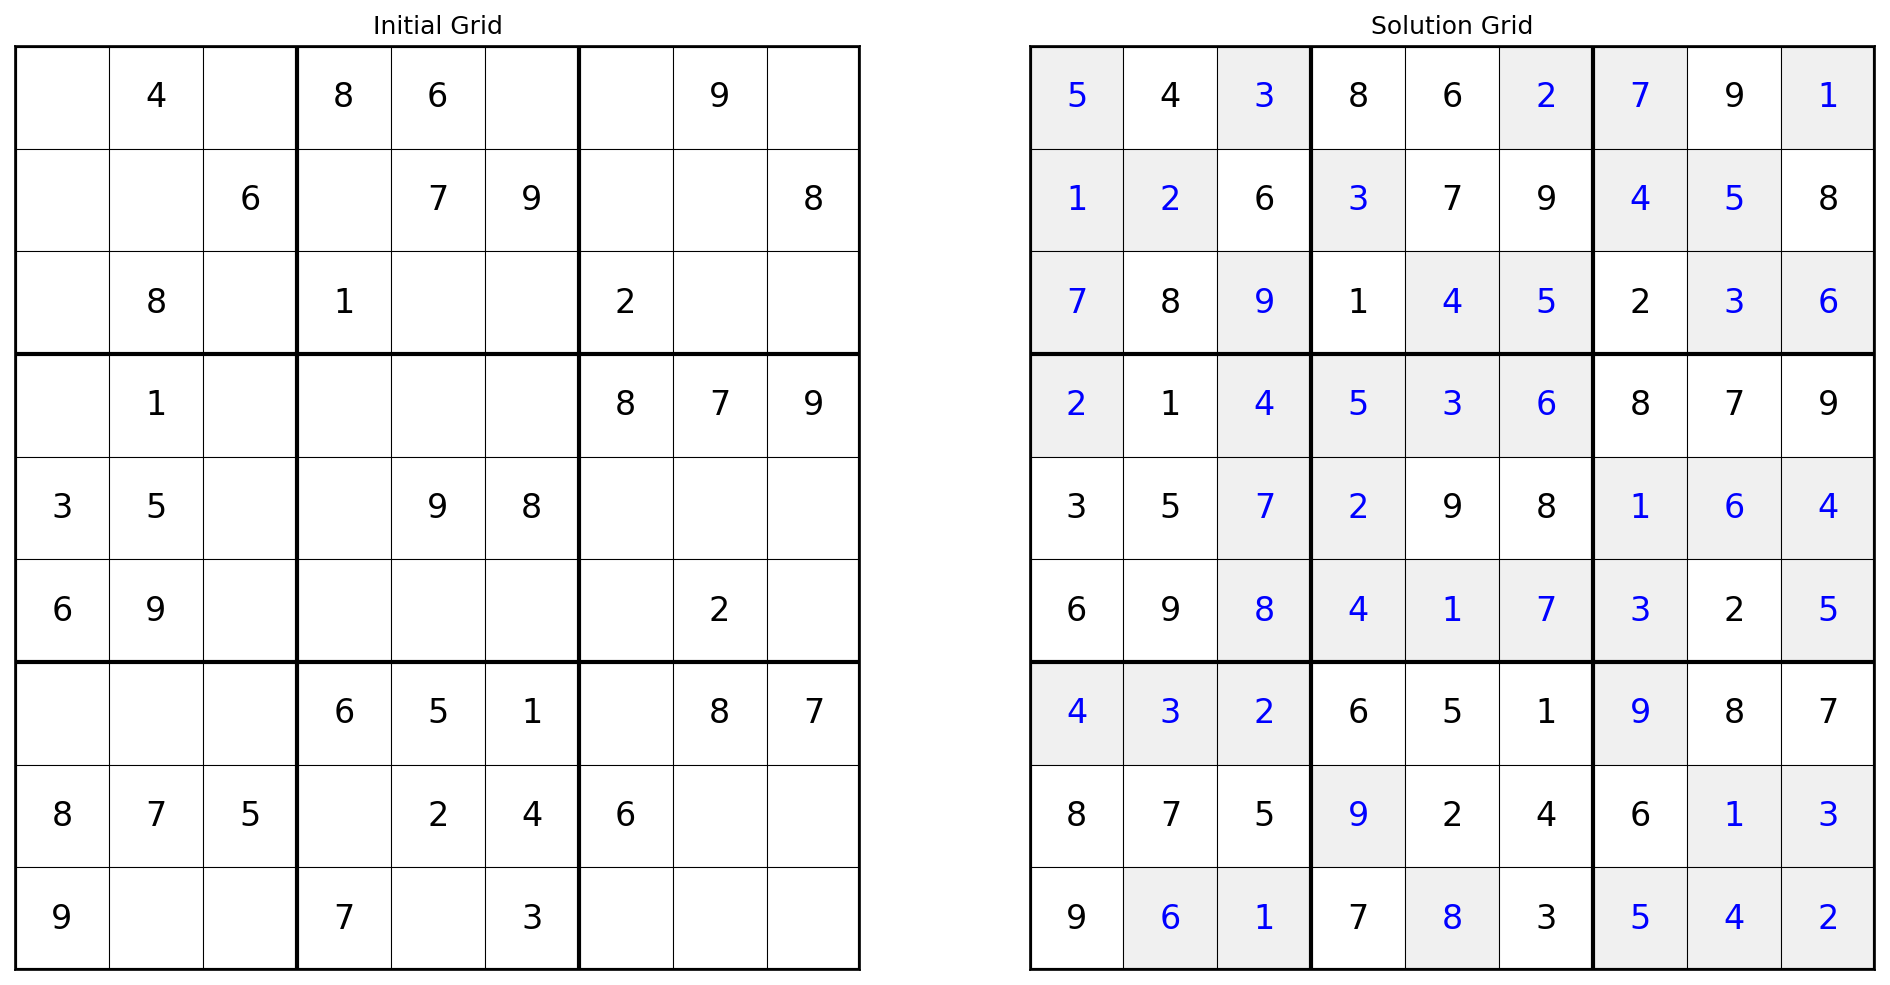
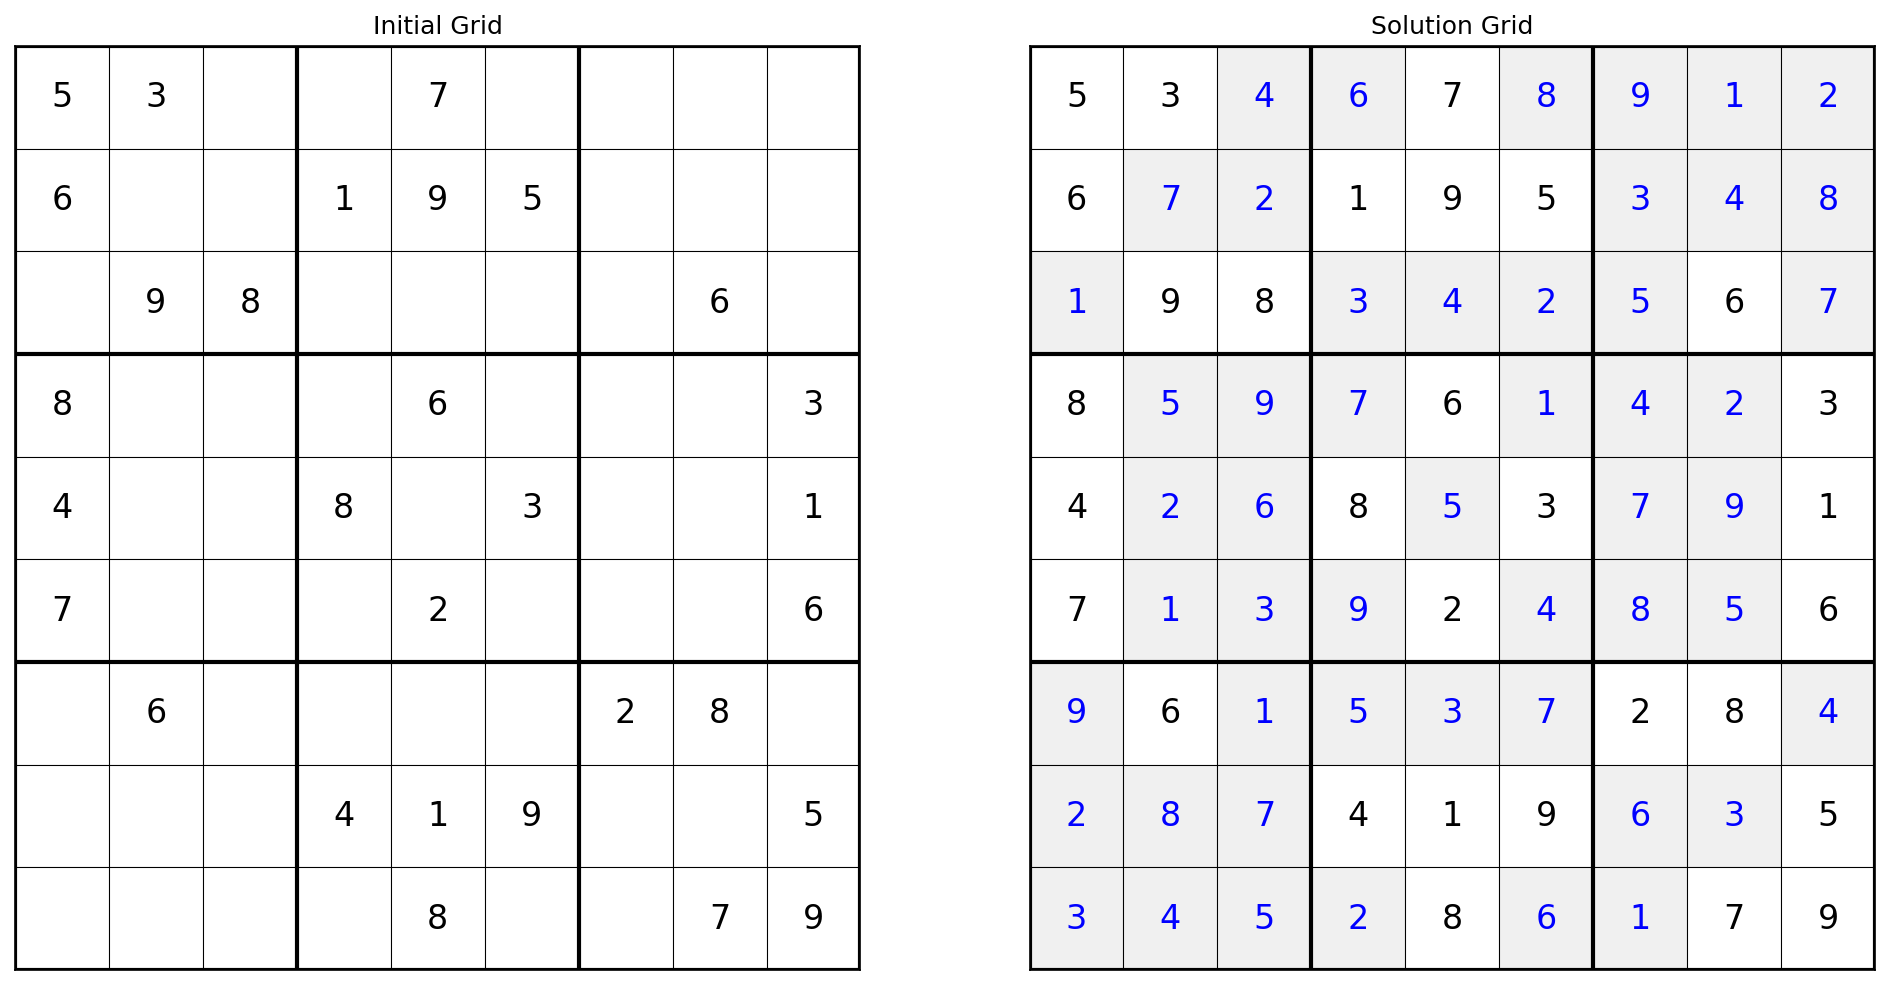
51 üres hely megoldás+ readme frissites

diff --git a/soduko_solver.py b/soduko_solver.py
@@ -289,15 +289,15 @@ class SudokuGeneticSolver:
 
 if __name__ == "__main__":
     grid = [
-        [0, 4, 0, 8, 6, 0, 0, 9, 0],
-        [0, 0, 6, 0, 7, 9, 0, 0, 8],
-        [0, 8, 0, 1, 0, 0, 2, 0, 0],
-        [0, 1, 0, 0, 0, 0, 8, 7, 9],
-        [3, 5, 0, 0, 9, 8, 0, 0, 0],
-        [6, 9, 0, 0, 0, 0, 0, 2, 0],
-        [0, 0, 0, 6, 5, 1, 0, 8, 7],
-        [8, 7, 5, 0, 2, 4, 6, 0, 0],
-        [9, 0, 0, 7, 0, 3, 0, 0, 0],
+        [5, 3, 0, 0, 7, 0, 0, 0, 0],
+        [6, 0, 0, 1, 9, 5, 0, 0, 0],
+        [0, 9, 8, 0, 0, 0, 0, 6, 0],
+        [8, 0, 0, 0, 6, 0, 0, 0, 3],
+        [4, 0, 0, 8, 0, 3, 0, 0, 1],
+        [7, 0, 0, 0, 2, 0, 0, 0, 6],
+        [0, 6, 0, 0, 0, 0, 2, 8, 0],
+        [0, 0, 0, 4, 1, 9, 0, 0, 5],
+        [0, 0, 0, 0, 8, 0, 0, 7, 9]
     ]
 
     solver = SudokuGeneticSolver(grid)

diff --git a/README.md b/README.md
@@ -1,104 +1,191 @@
-# Sudoku Optimizer
+# Sudoku Optimalizáló
 
-This project implements an optimization algorithm for solving Sudoku puzzles. The Sudoku optimizer aims to provide an efficient way to solve Sudoku grids using various optimization techniques.
-
-Ez a projekt egy optimalizálási algoritmust valósít meg a Sudoku rejtvények megoldására. A Sudoku optimalizáló célja, hogy hatékony módot biztosítson a Sudoku rácsok megoldására különböző optimalizálási technikák segítségével.
+Ez a projekt egy genetikus algoritmust implementál a Sudoku rejtvények megoldására. Az algoritmus evolúciós technikákat használ különböző nehézségű Sudoku rácsok megoldására.
 
 ---
 
-## Project Structure / Projekt Struktúra
+## Projekt Struktúra
 
 ```
 sudoku-optimizer
 ├── soduko_solver.py
-├── requirements.txt
+├── grids.txt
 └── README.md
 ```
 
-- **`soduko_solver.py`**: Contains the implementation of the genetic algorithm for solving Sudoku puzzles.
-  - Tartalmazza a genetikus algoritmus implementációját a Sudoku rejtvények megoldására.
-- **`requirements.txt`**: Lists the required Python packages for the project.
-  - A projekthez szükséges Python-csomagokat tartalmazza.
-- **`README.md`**: Documentation for the project.
-  - A projekt dokumentációja.
+- **`soduko_solver.py`**: Tartalmazza a genetikus algoritmus implementációját vizualizációs funkciókkal.
+- **`grids.txt`**: Különböző nehézségű Sudoku rácsok gyűjteménye (2-60 üres cellával).
+- **`README.md`**: A projekt dokumentációja.
 
 ---
 
-## Installation / Telepítés
+## Jellemzők
 
-To install the required dependencies, run:
-A szükséges függőségek telepítéséhez futtasd az alábbi parancsot:
-
-```
-pip install -r requirements.txt
-```
+- Genetikus algoritmus implementáció
+- A megoldási folyamat vizuális megjelenítése
+- Különböző nehézségi szintek támogatása
+- Folyamat vizualizáció matplotlib segítségével
+- Megoldás animáció mentése GIF formátumban
 
 ---
 
-## Usage / Használat
+## Követelmények
 
-To solve a Sudoku puzzle, you can use the `SudokuGeneticSolver` class from the `soduko_solver.py` file. Here is a basic example:
-Egy Sudoku rejtvény megoldásához használd a `SudokuGeneticSolver` osztályt a `soduko_solver.py` fájlból. Íme egy alapvető példa:
+- Python 3.x
+- numpy
+- matplotlib
+- IPython
+
+---
+
+## Használat
+
+Egy Sudoku rejtvény megoldásához használd a `SudokuGeneticSolver` osztályt a `soduko_solver.py` fájlból:
 
 ```python
 from soduko_solver import SudokuGeneticSolver
+import numpy as np
 
-grid = [
-    [0, 3, 4, 6, 7, 8, 9, 1, 0],
-    [6, 0, 2, 1, 0, 5, 3, 0, 8],
-    [1, 9, 0, 3, 4, 2, 0, 6, 7],
-    [8, 5, 9, 0, 6, 0, 4, 2, 3],
-    [0, 2, 0, 8, 0, 3, 0, 9, 0],
-    [7, 1, 3, 0, 2, 0, 8, 5, 6],
-    [9, 6, 0, 5, 0, 7, 0, 8, 4],
-    [2, 0, 7, 4, 1, 9, 6, 0, 5],
-    [0, 4, 5, 2, 0, 6, 1, 7, 0]
+# Példa rács 60 üres cellával (nehéz)
+racs = [
+    [9, 0, 0, 0, 8, 0, 0, 0, 0],
+    [0, 3, 0, 0, 0, 5, 0, 0, 9],
+    [0, 0, 0, 3, 9, 0, 0, 7, 0],
+    [0, 0, 0, 7, 0, 0, 0, 0, 0],
+    [0, 0, 0, 0, 3, 1, 0, 0, 6],
+    [7, 0, 0, 6, 0, 0, 0, 0, 0],
+    [0, 0, 0, 0, 0, 7, 3, 0, 2],
+    [0, 0, 0, 0, 0, 0, 1, 0, 7],
+    [0, 7, 0, 0, 0, 9, 0, 0, 0]
 ]
 
-solver = SudokuGeneticSolver(grid)
-solution, generation_found = solver.solve_with_visualization()
+megoldo = SudokuGeneticSolver(racs)
+megoldas, generacio = megoldo.solve_with_visualization()
 
-if solution is not None:
-    print("Sudoku solved!")
-    print(np.array(solution))
-    print(f"Solution found at generation: {generation_found}")
+if megoldas is not None:
+    print("Sudoku megoldva!")
+    print(np.array(megoldas))
+    print(f"Megoldva {generacio} generáció alatt.")
 else:
-    print("No solution found.")
+    print("Nem található megoldás.")
 ```
 
 ---
 
-## Visualization / Vizualizáció
+## Vizualizáció
 
-The project includes a visualization of the Sudoku solving process. The solution steps are saved as a GIF file named `sudoku_solution.gif`.
+A megoldó két típusú vizualizációt generál:
 
-A projekt tartalmaz egy vizualizációt a Sudoku megoldási folyamatáról. A megoldás lépései egy `sudoku_solution.gif` nevű GIF fájlba kerülnek mentésre.
+1. **Megoldási folyamat animáció**
+   - Mentve `sudoku_solution.gif` néven
+   - Mutatja a legjobb megoldás evolúcióját minden generációban
 
-### Example / Példa
+2. **Fitness történet grafikon**
+   - Mutatja hogyan javul a megoldás minősége a generációk során
 
-Below is an example of the generated GIF:
+### Példa
+
 Az alábbiakban egy példa a generált GIF-re:
 
-![Sudoku Solution](sudoku_solution.gif)
+![Sudoku Megoldás](sudoku_solution.gif)
 
 ---
 
-## Running Tests / Tesztek futtatása
+## Paraméterek
 
-To run the tests for the project, use the following command:
-A projekt tesztjeinek futtatásához használd az alábbi parancsot:
+A genetikus algoritmus az alábbi paraméterekkel hangolható:
 
-```
-pytest
-```
-
-This will execute all unit tests defined in the `tests` directory.
-Ez végrehajtja az összes tesztet, amely a `tests` könyvtárban van definiálva.
+- `population_size`: Populáció mérete (alapértelmezett: 2000)
+- `generations`: Maximális generációk száma (alapértelmezett: 5000)
+- `mutation_rate`: Mutáció valószínűsége (alapértelmezett: 0.4)
+- `elite_size`: Megőrzendő legjobb megoldások száma (populáció 5%-a)
 
 ---
 
-## Contributing / Hozzájárulás
+## Algoritmus Részletek
 
-Contributions are welcome! Please feel free to submit a pull request or open an issue for any suggestions or improvements.
+A genetikus algoritmus a következő főbb lépéseket követi:
 
-Hozzájárulásokat szívesen fogadok! Nyugodtan küldj pull requestet, vagy nyiss egy hibajegyet bármilyen javaslat vagy fejlesztés esetén.
+### Pszeudokód
+
+```
+Populáció Inicializálása:
+    Minden egyedre a populációban:
+        Érvényes Sudoku rács létrehozása az eredeti számok megtartásával
+        Üres cellák feltöltése véletlenszerű érvényes számokkal
+
+Amíg generációk < max_generációk:
+    Fitness Számítás:
+        Minden egyedre:
+            Sorok duplikátumainak számolása
+            Oszlopok duplikátumainak számolása
+            3x3-as blokkok duplikátumainak számolása
+            Minden duplikátum összegzése fitness értékként
+            (Alacsonyabb fitness érték jobb, 0 a tökéletes megoldás)
+    
+    Ha legjobb_fitness == 0:
+        Megoldás megtalálva, kilépés
+        
+    Új Generáció Létrehozása:
+        Szülők Kiválasztása:
+            Legjobb megoldások megtartása (elit_méret)
+            Torna szelekció a maradék helyekre
+        
+        Keresztezés:
+            Kiválasztott szülőkre:
+                Véletlenszerű keresztezési pontok választása
+                Gyermek létrehozása szülők kombinálásával
+        
+        Mutáció:
+            Minden sorra a gyermekben:
+                Mutációs_ráta valószínűséggel:
+                    Két véletlenszerű cella cseréje a sorban
+                    (Csak az eredetileg üres cellák cserélhetők)
+    
+    Ha stagnálás észlelhető:
+        Populáció újraindítása
+```
+
+### Főbb Komponensek
+
+1. **Populáció Inicializálás**
+   - Érvényes kezdeti rácsok létrehozása az eredeti puzzle számainak megtartásával
+   - Üres cellák véletlenszerű feltöltése a sorokon belüli Sudoku szabályok betartásával
+
+2. **Fitness Számítás**
+   - Értékeli, mennyire közel van egy megoldás az érvényességhez
+   - Számlálja a duplikátumokat sorokban, oszlopokban és 3x3-as blokkokban
+   - A tökéletes megoldás fitness értéke 0 (nincs duplikátum)
+
+3. **Kiválasztás**
+   - Elitizmus: Megtartja a legjobb megoldásokat
+   - Torna szelekció: Véletlenszerűen kiválaszt egyedeket és a legjobbat választja
+   - Jobb fitness értékű egyedeknek nagyobb az esélye a kiválasztásra
+
+4. **Keresztezés**
+   - Két szülő megoldás kombinálása új megoldás létrehozásához
+   - Több keresztezési pontot használ a sorok cseréjéhez
+   - Megőrzi az eredeti puzzle számait
+
+5. **Mutáció**
+   - Véletlenszerűen cserél számokat a sorokon belül
+   - Csak az eredetileg üres cellákat mutálja
+   - Segít fenntartani a populáció változatosságát
+
+6. **Újraindítási Mechanizmus**
+   - Észleli, amikor az algoritmus elakad (stagnálás)
+   - Újrainicializálja a populációt a legjobb megoldások megtartásával
+   - Segít elkerülni a lokális optimumokat
+
+A genetikus algoritmus specifikusan Sudokura adaptált az alábbiak szerint:
+
+- Érvényes sorok fenntartása az inicializálás során
+- Csak az eredetileg üres cellák módosítása
+- Sororientált keresztezés a részleges megoldások megőrzésére
+- Intelligens mutáció a Sudoku szabályok betartásával
+
+---
+
+## Hozzájárulás
+
+Nyugodtan küldj hibajegyeket és fejlesztési javaslatokat!
